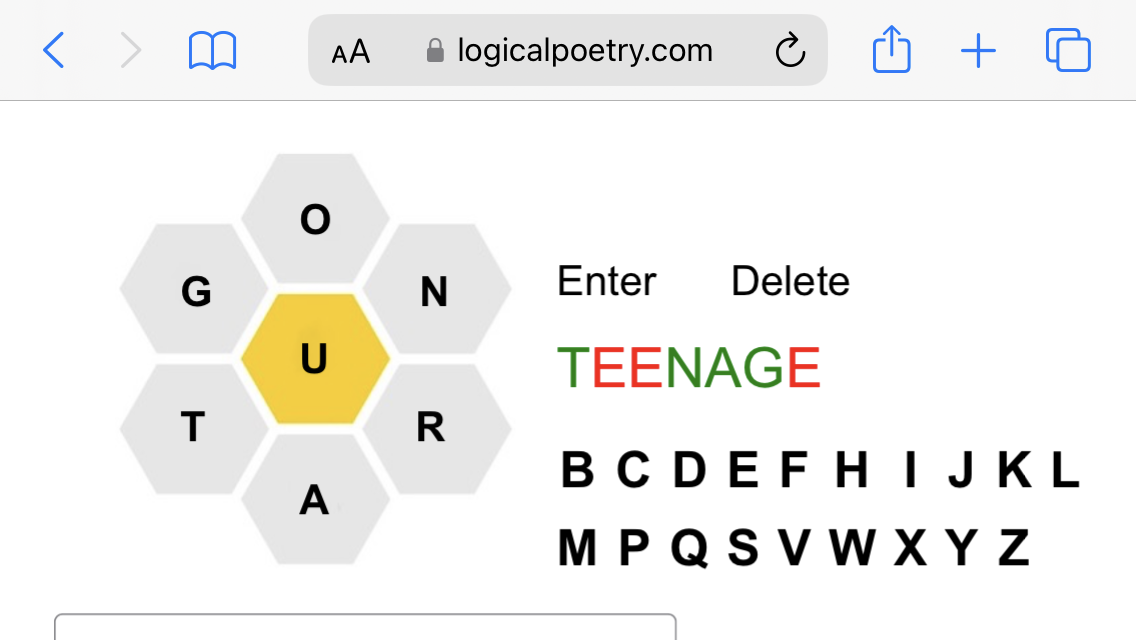
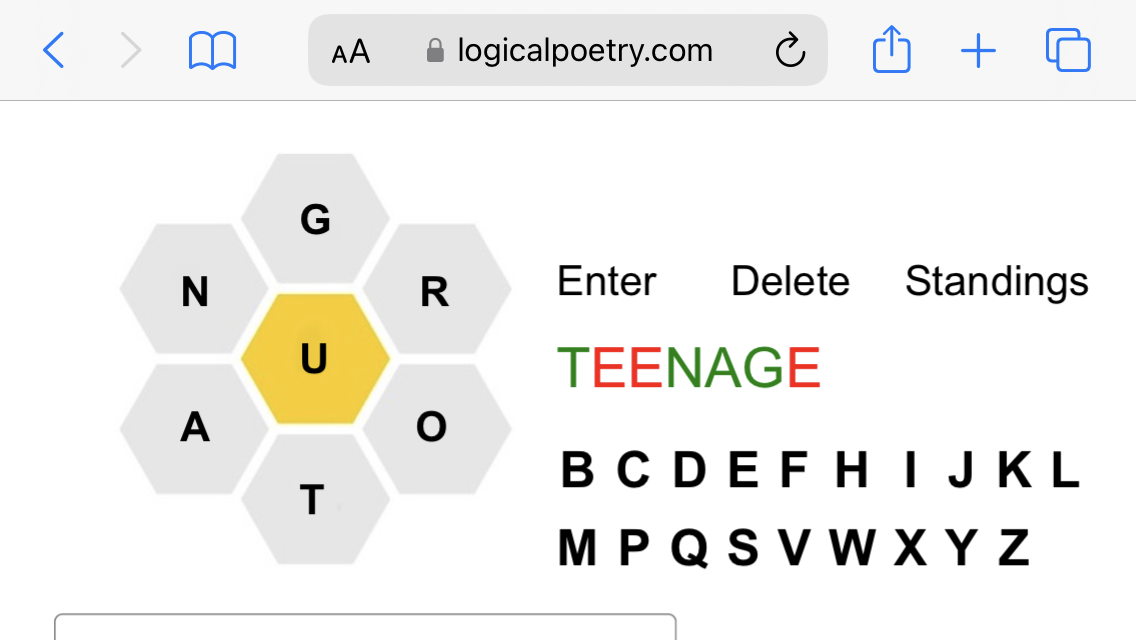
Standings, fix ++cp199

diff --git a/nytbee/help.html b/nytbee/help.html
@@ -1179,8 +1179,8 @@ It is now added to daily at 3:00 a.m. EST by extracting the words
 from the New York Times site.  There are daily puzzles going all the way
 back to May 9, 2018.   There are now
 <!-- Do NOT mess with the next two lines - see cgi-bin/nytbee_list.pl! -->
-1704 puzzles with
-a total of 9265 different words!
+1707 puzzles with
+a total of 9283 different words!
 <p>
 Which puzzles from the large archive to play?
 You can get one at random with the <span class=cmd>NR</span> command or you could

diff --git a/nytbee/js/nytbee.js b/nytbee/js/nytbee.js
@@ -42,6 +42,10 @@ function rand_def() {
     hnw.value = 'DR';
     main.submit();
 }
+function standings() {
+    hnw.value = 'CW';
+    main.submit();
+}
 function check_name_location() {
     var name = document.getElementById('name');
     if (empty(name.value)) {
